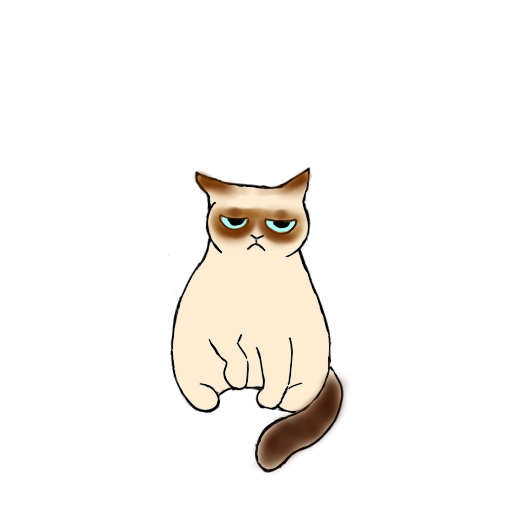
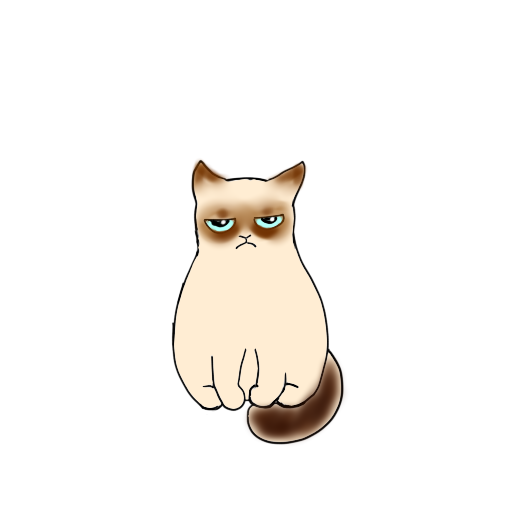
blaaaaa

Changed region(s): [[0.3125, 0.5938, 0.6875, 0.9375], [0.375, 0.3125, 0.625, 0.5938], [0.3438, 0.5312, 0.375, 0.625]]

diff --git a/megacat/MegaCat.qml b/megacat/MegaCat.qml
@@ -1,23 +1,83 @@
 import QtQuick 1.1
+import "loader.js" as L
 
 Sprite {
     id: megaCat
+
+    property bool isAbsent: false
+
+    function feed() {
+        loyaltyText.text -= 10;
+        L.decreaseLoyalty();
+    }
+
     width: 512
     height: 512
 
     animationName: "sit"
     frames: 1
     repeat: true
+    imageOpacity: 1.0
+    overlayOpacity: 0.0
+
+    transitions: [
+        Transition {
+            from: "*"; to: "ExitState"
+            ParallelAnimation{
+                NumberAnimation { target: megaCat; property: "imageOpacity"; duration: 2000; from: 1.0; to: 0.0 }
+                SequentialAnimation {
+                    NumberAnimation { target: megaCat; property: "overlayOpacity"; duration: 2000; from: 1.0; to: 0.5 }
+                    ScriptAction { script: megaCat.overlayOpacity = 0.0 }
+                }
+            }
+        }
+    ]
 
     states: [
+        State {
+            name: "ExitState"; when: megaCat.isAbsent
+            PropertyChanges {
+                target: megaCat
+                imageOpacity: 0.0
+                overlayOpacity: 0.0
+            }
+        },
         State {
             name: "EnteringState"
             PropertyChanges {
                 target: megaCat
                 animationName: "vxod"
-                frames: 24
+                frames: 12
                 repeat: false
                 interval: 150
+                onAnimationEnded: {
+                    megaCat.state = (loyaltyText.text < 0)? "FacepalmState" : "ShiftState"
+                    megaCat.isAbsent = false;
+                }
+            }
+        },
+        State {
+            name: "ShiftState"
+            PropertyChanges {
+                target: megaCat
+                animationName: "shift"
+                frames: 2
+                repeat: true
+                repeatCount: 6
+                interval: 150
+                onAnimationEnded: megaCat.state = ""
+            }
+        },
+        State {
+            name: "RepeatState"
+            PropertyChanges {
+                target: megaCat
+                animationName: "shift"
+                frames: 2
+                repeat: true
+                repeatCount: 3
+                interval: 150
+                onAnimationEnded: megaCat.state = ""
             }
         },
         State {
@@ -29,6 +89,17 @@ Sprite {
                 repeat: false
                 interval: 150
                 onAnimationEnded: megaCat.state = ""
+            }
+        },
+        State {
+            name: "ExitAfterFacepalmState"
+            PropertyChanges {
+                target: megaCat
+                animationName: "fp"
+                frames: 12
+                repeat: false
+                interval: 150
+                onAnimationEnded: megaCat.isAbsent = true
             }
         },
         State {
@@ -87,15 +158,39 @@ Sprite {
                 interval: 100
                 onAnimationEnded: megaCat.state = ""
             }
+        },
+        State {
+            name: "FeedState"
+            PropertyChanges {
+                target: megaCat
+                animationName: "mimimi"
+                frames: 1
+                repeat: false
+                running: true
+                interval: 2000
+                onAnimationEnded: megaCat.state = ""
+            }
         }
     ]
     state: ""
 
-    MouseArea {
-        id: mouseArea
-        anchors.fill: parent
-        onClicked: {
-            megaCat.state = megaCat.state == ""? "StandState" : ""
+    Timer {
+        interval: 1000 * 15
+        repeat: true
+        running: true
+        onTriggered: {
+            if (megaCat.state == "")
+                megaCat.state = "RepeatState";
         }
     }
+
+//    MouseArea {
+//        id: mouseArea
+//        anchors.fill: parent
+//        onClicked: {
+//            megaCat.isAbsent = !megaCat.isAbsent;
+//            if (!megaCat.isAbsent)
+//                megaCat.state = "EnteringState";
+//        }
+//    }
 }

diff --git a/megacat/loader.js b/megacat/loader.js
@@ -1,3 +1,7 @@
+var changesMap = {
+    'MAJOR_CHANGE': 30,
+    'MINOR_CHANGE': 5
+};
 
 function getLoyalty() {
     console.debug("getLoyalty()");
@@ -9,17 +13,68 @@ function getLoyalty() {
             if (xhr.status == 200) {
                 var loyalty = eval('(' + xhr.responseText + ')');
                 console.debug(loyalty.loyalty);
-                if (loyaltyText.text != loyalty.loyalty) {
-                    var prevLoyalty = loyaltyText.text;
-                    loyaltyText.text = loyalty.loyalty;
-                    if (loyalty.loyalty > prevLoyalty)
-                        counterRect.state = "PositiveState";
-                    else
-                        counterRect.state = "NegativeState";
-                    counterRect.state = "";
-                }
+
+                megaLogic(loyalty.loyalty);
             }
         }
     };
     xhr.send(null);
+}
+
+function megaLogic(loyalty) {
+    if (loyaltyText.text != loyalty) {
+        var prevLoyalty = loyaltyText.text;
+        var change = Math.abs(loyalty - prevLoyalty);
+
+        loyaltyText.text = loyalty;
+
+        if (loyalty > prevLoyalty) {    // positive case
+            counterRect.state = "PositiveState";
+
+            if (!megaCat.isAbsent) {
+                if (change < changesMap.MINOR_CHANGE)
+                    megaCat.state = "WinkState";
+                else
+                    megaCat.state = "MimimiState";
+            }
+            else
+                megaCat.state = "EnteringState";
+        }
+        else {                          // negative case
+            counterRect.state = "NegativeState";
+
+            if (!megaCat.isAbsent) {
+                if (change < changesMap.MINOR_CHANGE)
+                    megaCat.state = "ScaryState";
+                else if (change < changesMap.MAJOR_CHANGE)
+                    megaCat.state = "FacepalmState";
+                else
+                    megaCat.state = "ExitAfterFacepalmState";
+            }
+        }
+        counterRect.state = "";
+    }
+}
+
+
+function decreaseLoyalty() {
+    console.debug("decreaseLoyalty()");
+    var params = "loyalty=-10";
+    var xhr = new XMLHttpRequest();
+    xhr.open('PUT', 'http://localhost:42424/loyalty/', true);
+    xhr.setRequestHeader('Accept', 'application/json');
+    xhr.setRequestHeader("Content-type", "application/x-www-form-urlencoded");
+    xhr.setRequestHeader("Content-length", params.length);
+    xhr.setRequestHeader("Connection", "close");
+    xhr.onreadystatechange = function() {
+        if (xhr.readyState == xhr.DONE) {
+            if (xhr.status == 200) {
+                if (megaCat.isAbsent)
+                    megaCat.state = "EnteringState"
+                else
+                    megaCat.state = "FeedState"
+            }
+        }
+    };
+    xhr.send(params);
 }

diff --git a/megacat/Ubergotchi.qml b/megacat/Ubergotchi.qml
@@ -18,8 +18,9 @@ Rectangle {
         Text {
             id: loyaltyText
 
-            text: "0"
+            text: "100"
             color: "#400040"
+            smooth: true
 
             anchors {
                 fill: parent
@@ -28,7 +29,7 @@ Rectangle {
 
             font {
                 family: "Arial Black"
-                pixelSize: 30
+                pointSize: 16
                 bold: true
             }
 
@@ -72,8 +73,32 @@ Rectangle {
     }
 
     MegaCat {
+        id: megaCat
         width: 512
         height: 512
         anchors.centerIn: parent
+    }
+
+    Text {
+        text: "Give fish"
+        color: Qt.lighter("#400040")
+
+        width: 70
+        height: 20
+
+        font.pointSize: 16
+
+        anchors {
+            left: parent.left
+            bottom: parent.bottom
+            leftMargin: 10
+            bottomMargin: 10
+        }
+
+        MouseArea {
+            id: mouseArea
+            anchors.fill: parent
+            onClicked: { megaCat.feed(); }
+        }
     }
 }

diff --git a/megacat/Sprite.qml b/megacat/Sprite.qml
@@ -12,6 +12,8 @@ Item {
     property bool repeat: true
     property int repeatCount: -1
     property alias interval: spriteTimer.interval
+    property alias imageOpacity: spriteFrame.opacity
+    property alias overlayOpacity: spriteOverlay.opacity
 
     onRepeatChanged: {
         if (sprite.repeat)
@@ -26,8 +28,16 @@ Item {
     Image {
         id: spriteFrame
         source: "images/" + sprite.animationName + "/" + sprite.animationName + sprite.currentFrame + ".png"
+        smooth: true
 
         anchors.fill: parent
+    }
+
+    Image {
+        id: spriteOverlay
+        source: "images/sit/overlay.png"
+        opacity: 0.0
+        anchors.fill: spriteFrame
     }
 
     Timer {

diff --git a/catserver/templates/start_page.html b/catserver/templates/start_page.html
@@ -1,7 +1,7 @@
 <!doctype html>
 <html>
 <head>
-	<title>Ubergotchi by Heratorz</title>
+	<title>Our MegaCat's loyalty &mdash; {{ params['loyalty'] }} :: Ubergotchi by @Heratorz. Привет, #DOUhack :)</title>
 	<style type="text/css">
 		body {
 			background: #ffffff url('http://1.bp.blogspot.com/_2p1n26VRFU0/SuyGmYuBSeI/AAAAAAAAAjs/_ZKofb3LZB8/S1600-R/heratorzlogo2+(2).png') fixed no-repeat 10px 0px;

diff --git a/catserver/catserver.py b/catserver/catserver.py
@@ -74,6 +74,7 @@ def get_loyalty():
 @as_json
 def update_loyalty():
     new_loyalty = request.form.get('loyalty', type=int)
+    app.logger.debug(new_loyalty)
     g.db.execute('UPDATE megacat SET loyalty=((SELECT loyalty FROM megacat)+(?))', [new_loyalty])
     g.db.commit()
     return 'success', 200
